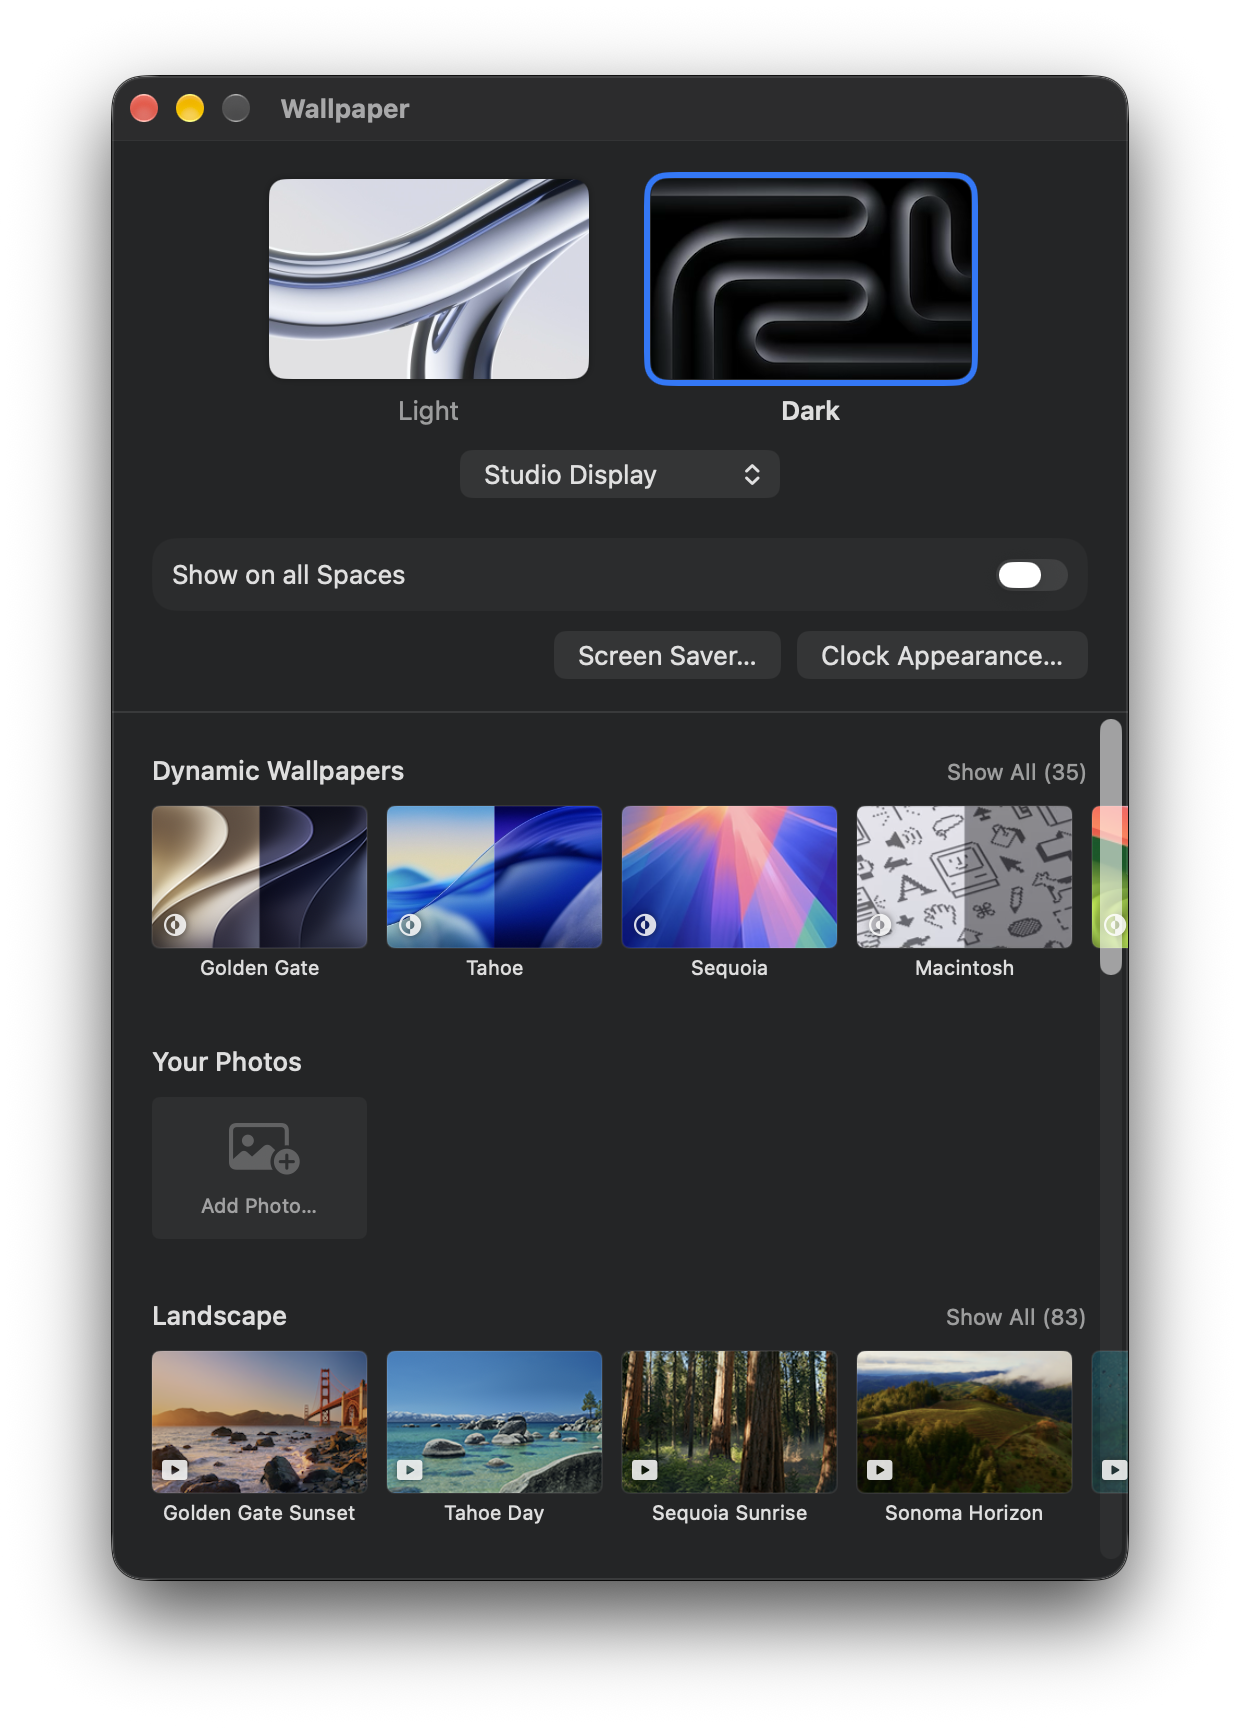
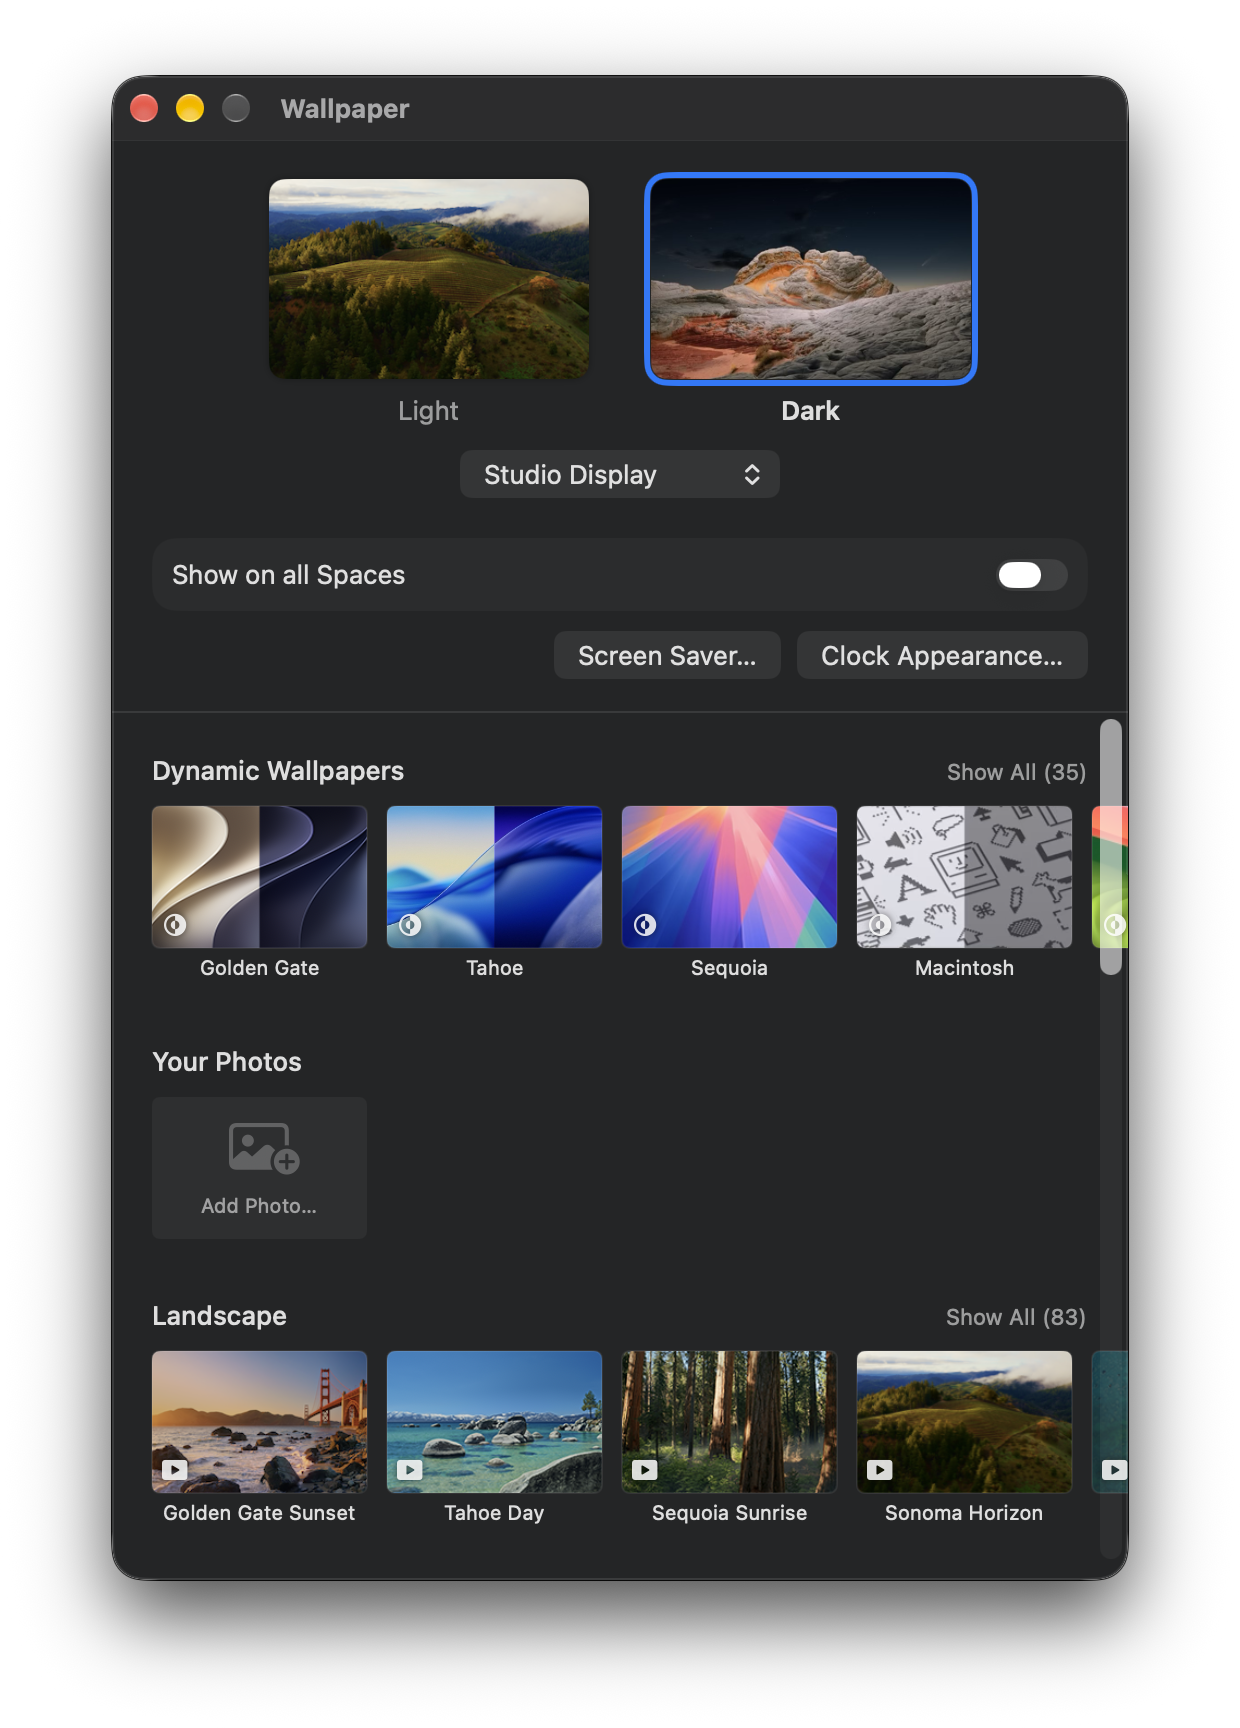
Use Sonoma Horizon (Light) and Dome (Dark) as default screenshot wallpapers and update docs

Changed region(s): [[0.2145, 0.0938, 0.4903, 0.2188], [0.521, 0.0938, 0.7968, 0.2188]]

diff --git a/scripts/screenshots/main.swift b/scripts/screenshots/main.swift
@@ -147,15 +147,15 @@ final class Screenshots: NSObject, NSApplicationDelegate {
         controller.brightness = evening.brightness
         controller.chooseAppearance(isDark: isDark) // which only the Appearance picker shows
         // And the wallpaper, which only the Wallpaper picker shows: it's only read, as the desktop isn't
-        // changed unless a picture is chosen. Hello Metallic Silver for Light and Pro Black for Dark, from
-        // System Settings' thumbnails of them, which every Mac has (the pictures themselves are
-        // downloaded when picked), or over a desktop, the desktop's own. In one wallpaper, as Safelight
-        // makes it when a picture is chosen for each.
-        let thumbnails = URL(fileURLWithPath: "/System/Library/Desktop Pictures/.thumbnails")
-        let light = desktopLight ?? wallpaperLight ?? thumbnails.appendingPathComponent("Hello Metallic Silver.heic")
-        let dark = desktopDark ?? wallpaperDark ?? thumbnails.appendingPathComponent("Pro Black.heic")
+        // changed unless a picture is chosen. Sonoma Horizon for Light and Dome (Dark) for Dark, matching
+        // docs/day.jpg, from files every Mac has (Dome's full picture is downloaded when picked, so its
+        // System Settings thumbnail is used), or over a desktop, the desktop's own. In one wallpaper, as
+        // Safelight makes it when a picture is chosen for each.
+        let pictures = URL(fileURLWithPath: "/System/Library/Desktop Pictures")
+        let light = desktopLight ?? wallpaperLight ?? pictures.appendingPathComponent(".wallpapers/Sonoma Horizon/Sonoma Horizon.heic")
+        let dark = desktopDark ?? wallpaperDark ?? pictures.appendingPathComponent(".thumbnails/Dome Dark.heic")
         let wallpaper = FileManager.default.temporaryDirectory.appendingPathComponent("Safelight Screenshots wallpaper.heic")
-        guard WallpaperManager.makeWallpaper(at: wallpaper, light: (light, false), dark: (dark, desktopDark != nil || wallpaperDark != nil)) else {
+        guard WallpaperManager.makeWallpaper(at: wallpaper, light: (light, false), dark: (dark, true)) else {
             fail("Couldn't make a wallpaper of \(light.path) and \(dark.path)")
         }
         WallpaperManager.shared.showPictures(of: wallpaper)
